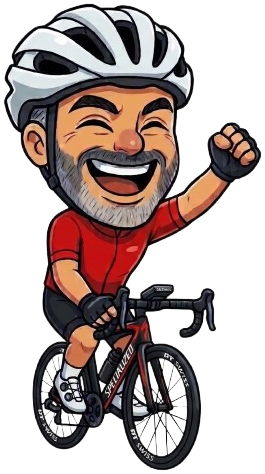
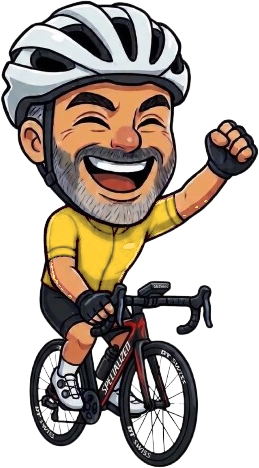
feat(site) : Robert en maillot jaune au-dessus du titre de l'accueil

Changed region(s): [[0.0, 0.0, 1.0, 1.0], [0.4633, 0.0897, 0.4942, 0.1197]]

diff --git a/deploy/site/style.css b/deploy/site/style.css
@@ -75,7 +75,7 @@ em { font-style: normal; color: var(--jaune); }
 .cta { display: flex; flex-wrap: wrap; gap: .8rem; margin: 1.8rem 0 1rem; }
 .cta.center { justify-content: center; }
 .hero-copy { position: relative; z-index: 2; max-width: 62rem; }
-.mascot { position: absolute; z-index: 2; right: clamp(1rem, 7vw, 8rem); bottom: 7.5rem; width: clamp(120px, 15vw, 230px); height: auto; filter: drop-shadow(0 18px 28px rgba(0, 0, 0, .55)); animation: ride 3.2s ease-in-out infinite; }
+.mascot { display: block; width: clamp(84px, 9vw, 140px); height: auto; margin: 0 0 .6rem .2rem; filter: drop-shadow(0 14px 22px rgba(0, 0, 0, .55)); animation: ride 3.2s ease-in-out infinite; }
 @keyframes ride { 0%, 100% { transform: translateY(0) rotate(-1.5deg); } 50% { transform: translateY(-9px) rotate(1.5deg); } }
 
 /* télémétrie du hero */
@@ -230,7 +230,6 @@ footer { padding: 2.5rem var(--pad) 3rem; border-top: 1px solid var(--ligne); di
   .top { justify-content: space-between; }
   .hud { grid-template-columns: repeat(4, 1fr); left: var(--pad); right: var(--pad); top: 5rem; }
   .tile { padding: .55rem .6rem; } .tile strong { font-size: 1.25rem; } .tile u { display: none; }
-  .mascot { display: none; }
   .row, .row.flip { grid-template-columns: 1fr; }
   .row.flip .shot { order: 0; }
   .num { top: -.6em; }

diff --git a/deploy/site/index.html b/deploy/site/index.html
@@ -48,6 +48,7 @@
 
       <div class="hero-copy">
         <p class="kicker"><i></i> Simulateur de vélo d'intérieur · multijoueur · gratuit</p>
+        <img class="mascot" src="/site/img/robert.png" alt="Robert, la mascotte, en maillot jaune" width="262" height="460" />
         <h1><span class="l1"><span>Allez</span></span> <span class="l2"><span>Robert&nbsp;!</span></span></h1>
         <p class="lead">Branche ton home-trainer. Relief IGN, villages et bâtiments réels&nbsp;: de l'Île-de-France à
           l'Alpe d'Huez, on roule ensemble, on se parle, on se tire la bourre dans les côtes.</p>
@@ -57,8 +58,6 @@
         </div>
         <p class="meta" id="hero-version">Windows 10 / 11 · 64 bits · sans compte · gratuit</p>
       </div>
-
-      <img class="mascot" src="/site/img/robert.png" alt="Robert, la mascotte, à vélo" width="262" height="460" />
 
       <svg class="profile" viewBox="0 0 1200 120" preserveAspectRatio="none" aria-hidden="true">
         <path id="profile-fill" d="M0 120 L0 98 C80 96 130 90 200 84 S330 70 400 62 S520 66 600 52 S720 40 800 34 S940 30 1010 18 S1130 8 1200 4 L1200 120Z" />
